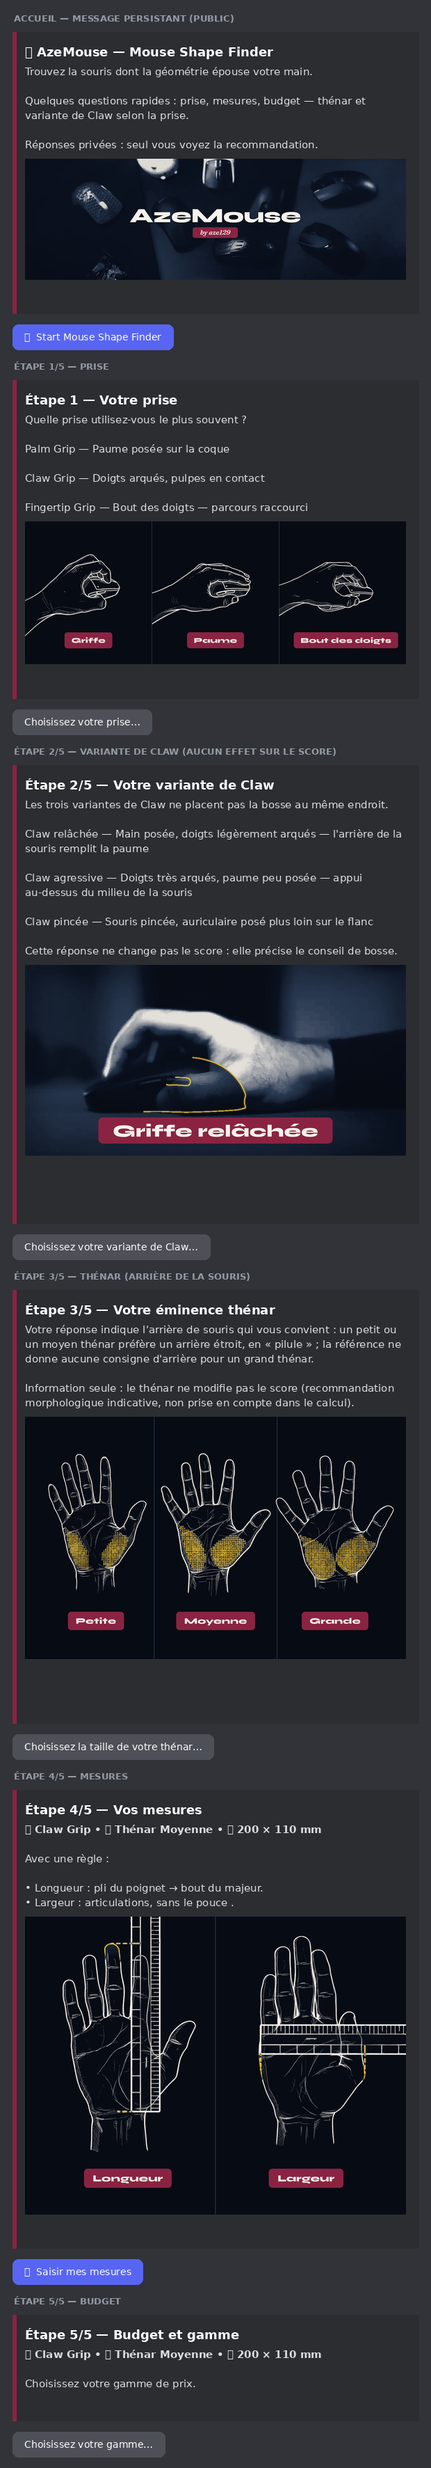
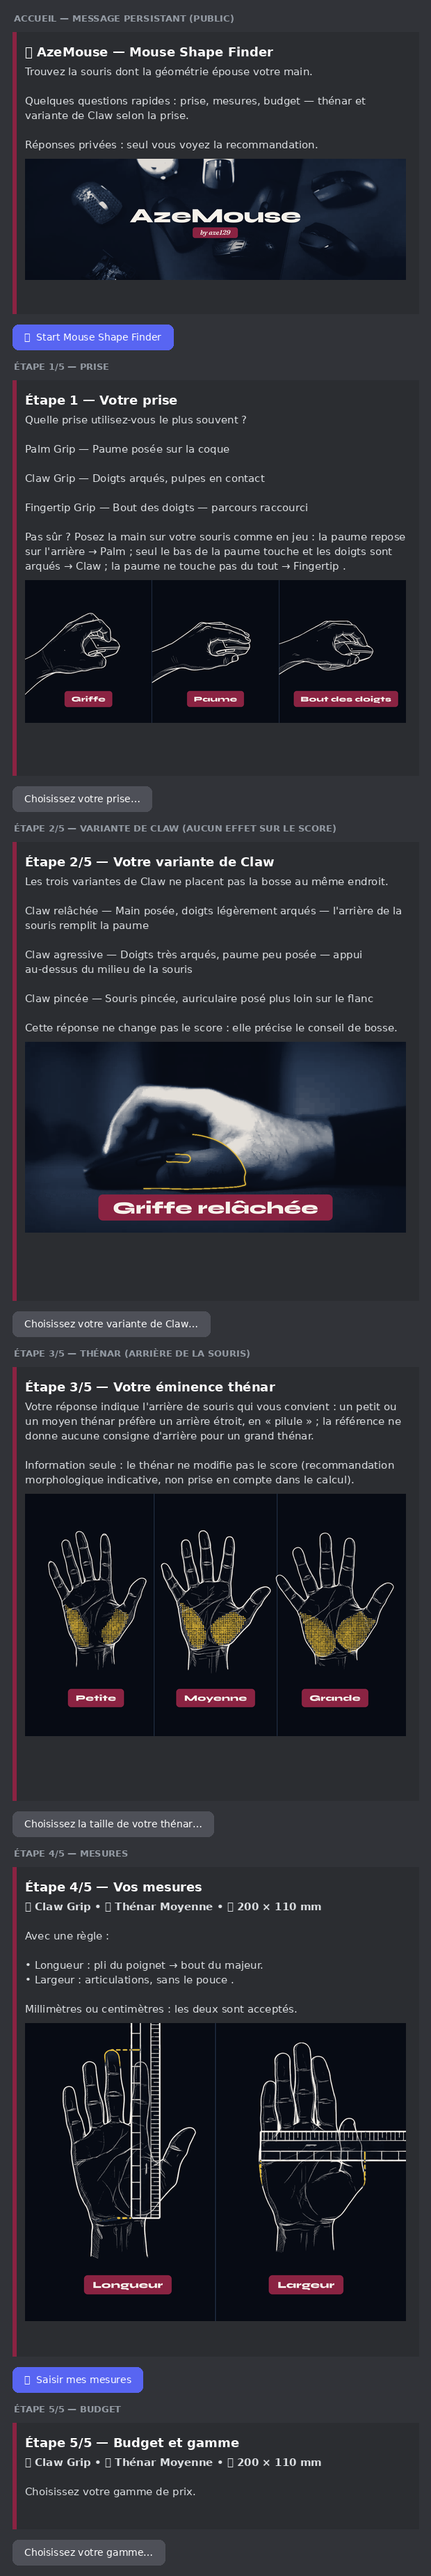
Parcours : mesures en cm acceptées, aide au choix de la prise ; liens partenaires sans affiliation écartés
- Mesures de la main : « 18,5 », « 18,5 cm » ou « 9 CM » sont convertis en
  millimètres (une valeur nue sous la borne basse n'a de sens qu'en cm).
  Libellés et consigne du formulaire l'annoncent ; 400 mm reste refusé.
- Étape prise : un test « Pas sûr ? » en une phrase par prise, sur la
  souris actuelle du membre.
- load_commercial_links : un lien vers atk.store, scyrox.com ou
  eu.pulsar.gg sans son paramètre (ref / bg_ref) est écarté avec un
  avertissement, au lieu d'un bouton d'achat sans commission. Le fichier
  livré ne perd aucun lien (test).
- Aperçus et matrice des profils régénérés.

Claude-Session: https://claude.ai/code/session_01MS5bWjXS3yz3NZZtiyzpcK

Changed region(s): [[0.0306, 0.0, 0.95, 0.6827], [0.0306, 0.7137, 0.95, 0.9929], [0.7048, 0.9309, 0.7355, 0.9619]]

diff --git a/utils/validation.py b/utils/validation.py
@@ -11,24 +11,39 @@ BUDGET_BOUNDS_EUR = (10.0, 5000.0)
 # après, avec une erreur technique au lieu du message clair destiné au membre.
 _NUMBER_RE = re.compile(r"[0-9]{1,5}(?:\.[0-9]{1,2})?")
 _MM_SUFFIX_RE = re.compile(r"(?i)mm$")
+_CM_SUFFIX_RE = re.compile(r"(?i)cm$")
 
 
 class InputError(ValueError):
     """Saisie utilisateur invalide ; le message est destiné à l'utilisateur."""
 
 
-def parse_number(raw: str | None, label: str, bounds: tuple[float, float], unit: str) -> float:
+def parse_number(raw: str | None, label: str, bounds: tuple[float, float], unit: str,
+                 *, accept_cm: bool = False) -> float:
+    """Nombre borné. Avec ``accept_cm`` (mesures de main), une saisie en centimètres est convertie.
+
+    2026-11-11 : beaucoup de membres mesurent en centimètres (« 18,5 », « 18,5 cm ») et recevaient
+    « hors limites » sans comprendre. Une valeur suffixée « cm », ou une valeur nue qui n'a de sens
+    qu'en centimètres (sous la borne basse, mais dans les bornes une fois multipliée par 10), est
+    convertie en millimètres. Une main de 18 mm n'existe pas : aucune ambiguïté n'est tranchée au hasard.
+    """
     if raw is None or not raw.strip():
         raise InputError(f"{label} : la valeur est obligatoire.")
     # Tous les espaces sont ignorés, y compris l'espace fine insécable et l'espace fine que les
     # claviers français insèrent (« 1 800 € » doit s'accepter comme « 1800 € »), ainsi que le suffixe
     # d'unité, quelle que soit sa casse (« 180 mm », « 180 MM »).
     text = "".join(raw.split()).replace("€", "").replace(",", ".")
-    text = _MM_SUFFIX_RE.sub("", text)
+    in_cm = accept_cm and _CM_SUFFIX_RE.search(text) is not None
+    if in_cm:
+        text = _CM_SUFFIX_RE.sub("", text)
+    else:
+        text = _MM_SUFFIX_RE.sub("", text)
     if not _NUMBER_RE.fullmatch(text):
         raise InputError(f"{label} : « {raw.strip()} » n'est pas un nombre valide (ex : 180 ou 180,5).")
     value = float(text)
     low, high = bounds
+    if accept_cm and (in_cm or value < low) and low <= value * 10 <= high:
+        value = round(value * 10, 1)
     if not low <= value <= high:
         raise InputError(f"{label} : {value:g} {unit} est hors limites ({low:g} à {high:g} {unit}).")
     return value
@@ -39,11 +54,11 @@ def parse_hand_measures(length_raw: str | None, width_raw: str | None) -> tuple[
     errors: list[str] = []
     length = width = None
     try:
-        length = parse_number(length_raw, "Longueur", LENGTH_BOUNDS_MM, "mm")
+        length = parse_number(length_raw, "Longueur", LENGTH_BOUNDS_MM, "mm", accept_cm=True)
     except InputError as exc:
         errors.append(str(exc))
     try:
-        width = parse_number(width_raw, "Largeur", WIDTH_BOUNDS_MM, "mm")
+        width = parse_number(width_raw, "Largeur", WIDTH_BOUNDS_MM, "mm", accept_cm=True)
     except InputError as exc:
         errors.append(str(exc))
     if errors:

diff --git a/cogs/finder_flow.py b/cogs/finder_flow.py
@@ -572,7 +572,14 @@ def grip_step_embed() -> discord.Embed:
         # 4 en Palm, 5 en Claw) et la prise n'est pas encore connue à cette étape. Le numéro, lui,
         # vient de la table (GRIP_STEP_NUMBER) : il n'est pas réécrit ici.
         title=f"Étape {GRIP_STEP_NUMBER} — Votre prise",
-        description=f"Quelle prise utilisez-vous le plus souvent ?\n\n{description}",
+        description=(
+            f"Quelle prise utilisez-vous le plus souvent ?\n\n{description}\n\n"
+            # 2026-11-11 : beaucoup de membres ne connaissent pas le nom de leur prise. Un test en
+            # trois secondes, sur leur souris actuelle, évite un mauvais choix dès la première étape.
+            "**Pas sûr ?** Posez la main sur votre souris comme en jeu : la paume repose sur l'arrière "
+            "→ **Palm** ; seul le bas de la paume touche et les doigts sont arqués → **Claw** ; "
+            "la paume ne touche pas du tout → **Fingertip**."
+        ),
         color=COLOR,
     )
     return _image(embed, "step1_grip")
@@ -614,7 +621,8 @@ def measure_step_embed(session: FinderSession) -> discord.Embed:
             f"{_recap(session)}\n\n"
             "Avec une règle :\n\n"
             "• **Longueur** : pli du poignet → bout du majeur.\n"
-            "• **Largeur** : articulations, **sans le pouce**."
+            "• **Largeur** : articulations, **sans le pouce**.\n\n"
+            "Millimètres ou centimètres : les deux sont acceptés."
         ),
         color=COLOR,
     )
@@ -1138,15 +1146,15 @@ class MeasureModal(FinderModal):
     def __init__(self) -> None:
         super().__init__(title="Mesure de votre main", custom_id=MEASURE_MODAL_CUSTOM_ID)
         self.length = discord.ui.TextInput(
-            label="Longueur de la main (mm)",
-            placeholder="Ex : 180",
+            label="Longueur de la main (mm ou cm)",
+            placeholder="Ex : 180 ou 18 cm",
             required=True,
             min_length=1,
             max_length=6,
         )
         self.width = discord.ui.TextInput(
-            label="Largeur sans le pouce (mm)",
-            placeholder="Ex : 90",
+            label="Largeur sans le pouce (mm ou cm)",
+            placeholder="Ex : 90 ou 9 cm",
             required=True,
             min_length=1,
             max_length=6,

diff --git a/utils/catalog.py b/utils/catalog.py
@@ -15,6 +15,7 @@ import re
 from dataclasses import fields
 from pathlib import Path
 from typing import Any, Mapping
+from urllib.parse import parse_qs, urlsplit
 
 from utils.models import (
     BUTTON_HEIGHTS,
@@ -201,6 +202,28 @@ def _lien_utilisable(url: str) -> bool:
             and _LIEN_INUTILISABLE.search(url) is None)
 
 
+# Boutiques partenaires du propriétaire et paramètre d'affiliation qu'elles attendent (fournis le
+# 2026-10-12, voir data/commercial_links.json « _affiliation »). 2026-11-11 : un lien vers l'une de ces
+# boutiques SANS son paramètre ferait acheter le membre sans commission — le bouton s'afficherait,
+# l'erreur passerait inaperçue. Jusqu'ici seuls les tests le vérifiaient ; le chargeur l'écarte désormais
+# (avertissement dans les journaux, repli « Liens à venir » si c'était le seul lien).
+AFFILIATE_PARAMS = {
+    "atk.store": "ref",
+    "www.atk.store": "ref",
+    "scyrox.com": "bg_ref",
+    "www.scyrox.com": "bg_ref",
+    "eu.pulsar.gg": "ref",
+}
+
+
+def _affiliation_manquante(url: str) -> bool:
+    parts = urlsplit(url)
+    param = AFFILIATE_PARAMS.get((parts.hostname or "").lower())
+    if param is None:
+        return False
+    return not any(v.strip() for v in parse_qs(parts.query).get(param, []))
+
+
 def load_commercial_links(path: Path) -> dict[str, str]:
     """Retourne {mouse_id: url}. Les entrées invalides sont ignorées avec un avertissement."""
     try:
@@ -225,8 +248,10 @@ def load_commercial_links(path: Path) -> dict[str, str]:
     for mouse_id, url in raw.items():
         if mouse_id.startswith("_"):
             continue
-        if isinstance(url, str) and _lien_utilisable(url):
-            links[mouse_id] = url
-        else:
+        if not (isinstance(url, str) and _lien_utilisable(url)):
             log.warning("Lien ignoré pour %s : URL invalide", mouse_id)
+        elif _affiliation_manquante(url):
+            log.warning("Lien ignoré pour %s : paramètre d'affiliation absent (%s)", mouse_id, url)
+        else:
+            links[mouse_id] = url
     return links

diff --git a/tests/test_data.py b/tests/test_data.py
@@ -798,6 +798,28 @@ def test_links_file_skips_invalid_entries(tmp_path):
     assert load_commercial_links(f) == {"a": "https://shop.test/a"}
 
 
+def test_un_lien_partenaire_sans_parametre_d_affiliation_est_ecarte(tmp_path):
+    """2026-11-11 : un lien ATK, Scyrox ou Pulsar EU sans son paramètre ferait acheter sans commission."""
+    f = tmp_path / "links.json"
+    f.write_text(json.dumps({
+        "atk_ok": "https://www.atk.store/en-fr/products/x?country=FR&ref=aze",
+        "atk_sans_ref": "https://www.atk.store/en-fr/products/x?country=FR",
+        "atk_ref_vide": "https://atk.store/products/x?ref=",
+        "scyrox_ok": "https://scyrox.com/products/scyrox-v8?bg_ref=Q0rHhhBRNv",
+        "scyrox_mauvais_param": "https://scyrox.com/products/scyrox-v8?ref=aze",
+        "pulsar_ok": "https://eu.pulsar.gg/products/x?ref=AZE",
+        "pulsar_sans_ref": "https://eu.pulsar.gg/products/x",
+        "autre_boutique": "https://shop.test/a",
+    }), encoding="utf-8")
+    assert set(load_commercial_links(f)) == {"atk_ok", "scyrox_ok", "pulsar_ok", "autre_boutique"}
+
+
+def test_le_fichier_livre_ne_perd_aucun_lien_au_controle_d_affiliation():
+    brut = {k: v for k, v in json.loads(COMMERCIAL_LINKS_PATH.read_text(encoding="utf-8")).items()
+            if not k.startswith("_")}
+    assert load_commercial_links(COMMERCIAL_LINKS_PATH) == brut
+
+
 def test_un_lien_trop_long_pour_discord_est_ecarte_et_les_autres_survivent(tmp_path):
     """C56 (2026-10-13) : Discord refuse une URL de bouton de plus de 512 caractères.
 

diff --git a/tests/test_validation.py b/tests/test_validation.py
@@ -60,3 +60,14 @@ def test_non_latin_digits_get_the_clear_message_not_a_crash():
     """Un chiffre non latin doit produire une InputError lisible, jamais une exception technique."""
     with pytest.raises(InputError, match="n'est pas un nombre valide"):
         parse_number("\u0661\u0668\u0660", "Longueur", (100, 260), "mm")
+
+
+def test_hand_measures_typed_in_centimetres_are_converted():
+    """2026-11-11 : « 18,5 » ou « 18,5 cm » pour une main se lit en centimètres (une main de 18 mm n'existe pas)."""
+    assert parse_hand_measures("18,5", "9") == (185.0, 90.0)
+    assert parse_hand_measures("18.5 cm", "9,2 CM") == (185.0, 92.0)
+    assert parse_hand_measures("185", "92 mm") == (185.0, 92.0)
+    with pytest.raises(InputError):
+        parse_hand_measures("40 cm", "9")      # 400 mm : hors limites, jamais tronqué
+    with pytest.raises(InputError):
+        parse_budget("18 cm")                  # le budget n'accepte pas d'unité de longueur
